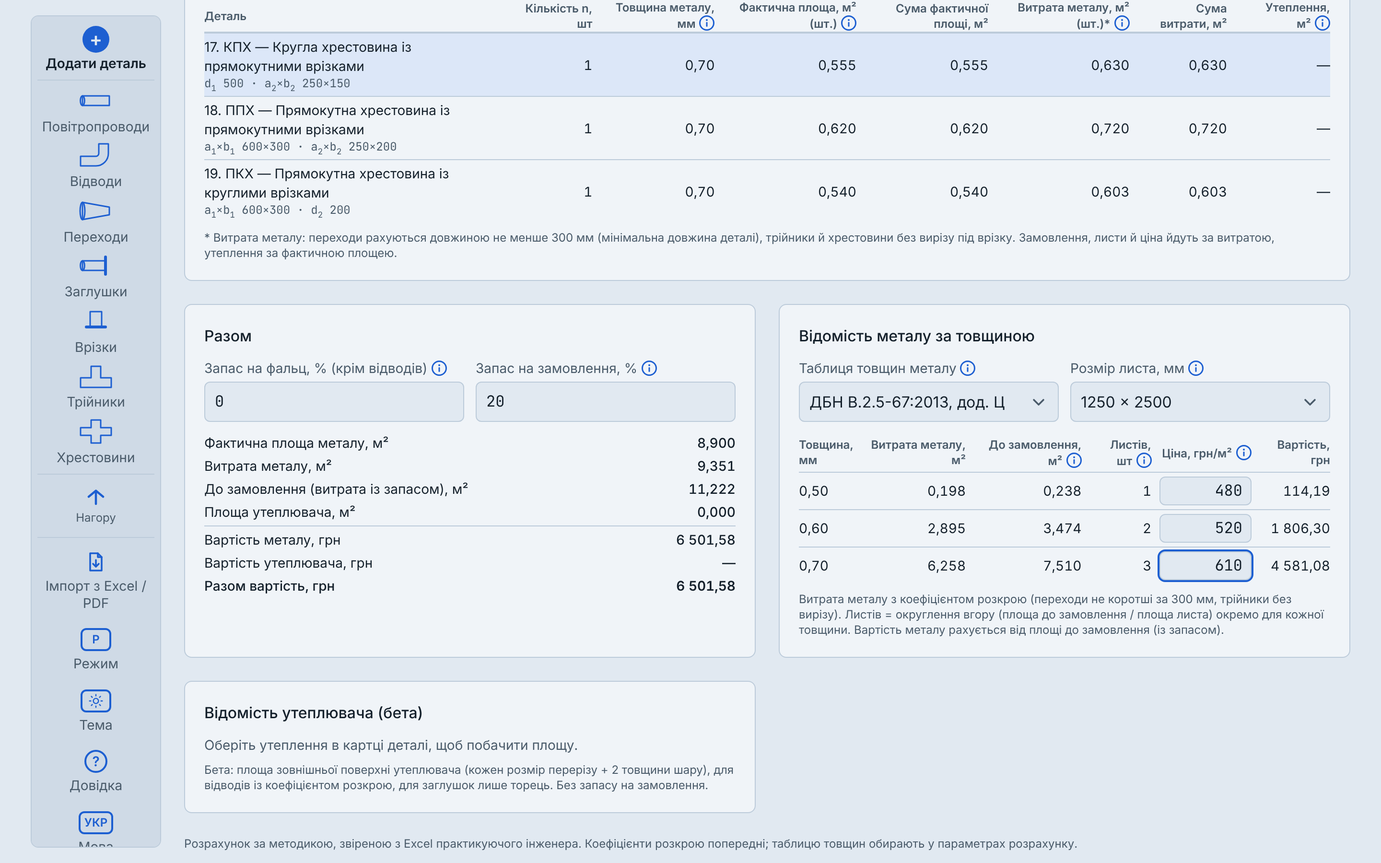
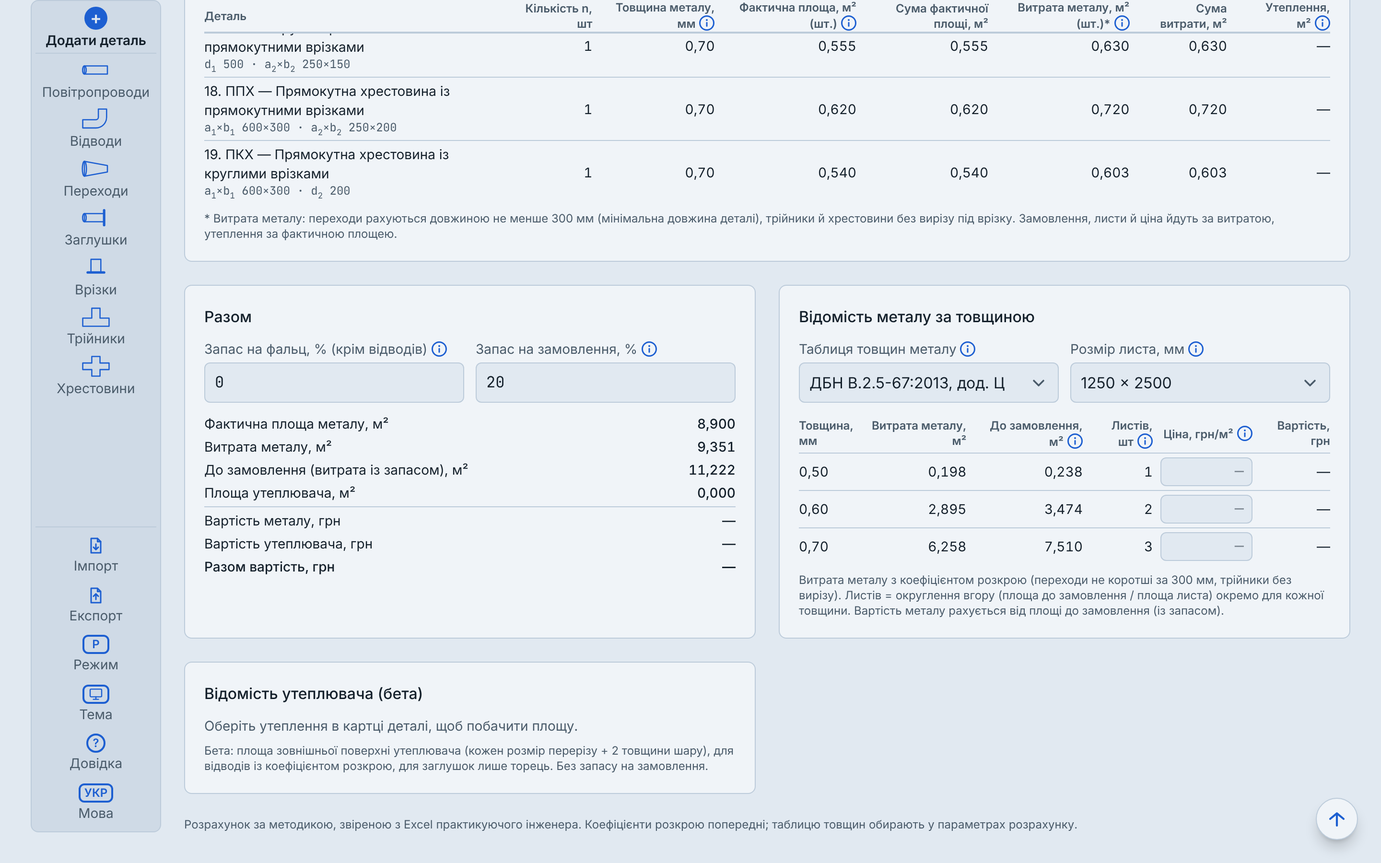
Compact desktop rail, floating to-top button (ADR 0104)
Claude-Session: https://claude.ai/code/session_0157kQd6RVjVS4by5oXwAeHK

diff --git a/src/components/calculator/KindPalette.tsx b/src/components/calculator/KindPalette.tsx
@@ -46,10 +46,25 @@ function KindItem({ kind, count, onPick }: { kind: FittingKind; count: number; o
 }
 
 // sections of the one rail panel, split by a line
-const railBox = "flex flex-col gap-1 border-t border-line pt-1.5 first:border-t-0 first:pt-0";
+const railBox = "flex flex-col gap-0.5 border-t border-line pt-1 first:border-t-0 first:pt-0";
 
-const railAction =
-  "grid justify-items-center gap-1 rounded-md border border-transparent px-1 py-1.5 text-center text-xs leading-tight text-muted hover:border-line hover:text-foreground hover:bg-accent-soft focus-visible:outline-2 focus-visible:outline-accent";
+/** Desktop: a round "to top" button at the bottom right of the screen, shown after a short scroll down; it left the rail to give the rail room (ADR 0104). */
+export function ToTopButton() {
+  const { dict } = useI18n();
+  const [scrolled, setScrolled] = useState(false);
+  useEffect(() => {
+    const onScroll = () => setScrolled(window.scrollY > 300);
+    onScroll();
+    window.addEventListener("scroll", onScroll, { passive: true });
+    return () => window.removeEventListener("scroll", onScroll);
+  }, []);
+  if (!scrolled) return null;
+  return (
+    <button type="button" onClick={scrollToTop} aria-label={dict.palette.toTop} title={dict.palette.toTop} className="print-hide fixed bottom-6 right-6 z-30 hidden h-11 w-11 place-items-center rounded-full border border-line bg-panel text-accent shadow-lg shadow-black/20 hover:border-accent hover:bg-accent-soft focus-visible:outline-2 focus-visible:outline-accent lg:grid">
+      <UpIcon className="h-5 w-7" />
+    </button>
+  );
+}
 
 /** Desktop: a narrow single-column rail (icon over label) of the kind groups, help and language (the view toggles are in the list header, ADR 0088), always in view; a group opens a list of its kinds beside the rail. */
 export function KindRail({ count, onAdd, onImport, exportItems }: Props & { onImport?: (rows: ImportRow[], replace: boolean) => number; exportItems?: ReactNode }) {
@@ -65,10 +80,10 @@ export function KindRail({ count, onAdd, onImport, exportItems }: Props & { onIm
     <nav ref={ref} aria-label={dict.palette.title} className="hidden lg:block">
       {/* the list opens inside the sticky box, so it stays beside the rail wherever the page is scrolled; the box is a stacking context, so it carries z-30 itself or the positioned sections paint over the list (ADR 0087) */}
       <div ref={box} className="sticky top-4 z-30">
-      <div className="flex h-[calc(100vh-2rem)] flex-col gap-1.5 overflow-y-auto rounded-lg border border-line bg-bar p-1.5">
+      <div className="flex h-[calc(100vh-2rem)] flex-col gap-1 overflow-y-auto rounded-lg border border-line bg-bar p-1">
       <div className={railBox}>
-        <p className="grid justify-items-center gap-0.5 border-b border-line px-0.5 pb-2 pt-1 text-center text-sm font-semibold leading-tight">
-          <span aria-hidden="true" className="grid h-7 w-7 place-items-center rounded-full bg-accent text-xl leading-none text-background">+</span>
+        <p className="grid justify-items-center gap-0.5 border-b border-line px-0.5 pb-1 pt-0.5 text-center text-sm font-semibold leading-tight">
+          <span aria-hidden="true" className="grid h-6 w-6 place-items-center rounded-full bg-accent text-lg leading-none text-background">+</span>
           {dict.palette.title}
         </p>
         <div className="grid grid-cols-1 gap-0.5">
@@ -81,22 +96,16 @@ export function KindRail({ count, onAdd, onImport, exportItems }: Props & { onIm
               setTop(box.current ? e.currentTarget.getBoundingClientRect().top - box.current.getBoundingClientRect().top : 0);
               setOpen(open === g.id ? null : g.id);
             }}
-            className={`grid justify-items-center gap-1 rounded-md border px-0.5 py-0.5 text-sm leading-tight hover:bg-accent-soft focus-visible:outline-2 focus-visible:outline-accent ${open === g.id ? "border-line bg-accent-soft text-foreground" : "border-transparent text-muted"}`}
+            className={`grid justify-items-center gap-0.5 rounded-md border px-0.5 py-0.5 text-sm leading-tight hover:bg-accent-soft focus-visible:outline-2 focus-visible:outline-accent ${open === g.id ? "border-line bg-accent-soft text-foreground" : "border-transparent text-muted"}`}
           >
-            <KindGlyph kind={g.kinds[0]} className="h-7 w-11 text-accent" />
+            <KindGlyph kind={g.kinds[0]} className="h-6 w-10 text-accent" />
             <span>{dict.kindGroups[g.id]}</span>
           </button>
         ))}
         </div>
       </div>
-        <div className={railBox}>
-          <button type="button" onClick={scrollToTop} className={railAction}>
-            <UpIcon className="h-5 w-8 text-accent" />
-            {dict.palette.toTop}
-          </button>
-        </div>
         {/* help and language sit at the bottom of the rail on desktop, beside the work; the phone keeps them in the page header */}
-        <div className={`${railBox} mt-auto pb-1`}>
+        <div className={`${railBox} mt-auto pb-0.5`}>
           {/* import and mode moved here from the page header on desktop (ADR 0089) */}
           {onImport && <ImportButton rail onImport={onImport} />}
           {exportItems}
@@ -105,6 +114,7 @@ export function KindRail({ count, onAdd, onImport, exportItems }: Props & { onIm
           <HelpButton rail />
           <LangRailButton />
         </div>
+      <ToTopButton />
       </div>
       {group && (
         <div style={{ top }} className="absolute left-full z-30 ml-2 w-max min-w-64 max-w-[28rem] rounded-lg border border-line bg-panel p-2 shadow-xl shadow-black/30">

diff --git a/src/components/calculator/ImportDialog.tsx b/src/components/calculator/ImportDialog.tsx
@@ -146,11 +146,11 @@ export function ImportButton({ onImport, className = "", rail = false }: { onImp
     <>
       {rail ? (
         // desktop rail: an icon over a label, like the other rail items (ADR 0089)
-        <button type="button" className={railItemClass} onClick={() => ref.current?.showModal()} aria-haspopup="dialog">
-          <svg viewBox="0 0 24 24" fill="none" stroke="currentColor" strokeWidth="1.8" strokeLinecap="round" strokeLinejoin="round" aria-hidden="true" className="h-6 w-6 text-accent">
+        <button type="button" className={railItemClass} onClick={() => ref.current?.showModal()} aria-haspopup="dialog" title={t.button}>
+          <svg viewBox="0 0 24 24" fill="none" stroke="currentColor" strokeWidth="1.8" strokeLinecap="round" strokeLinejoin="round" aria-hidden="true" className="h-5 w-5 text-accent">
             <path d="M6 3h8l4 4v14H6z" /><path d="M14 3v4h4" /><path d="M12 10v7M9 14l3 3 3-3" />
           </svg>
-          {t.button}
+          {t.short}
         </button>
       ) : (
         <button type="button" className={`${buttonClass} shrink-0 ${className}`} onClick={() => ref.current?.showModal()} aria-haspopup="dialog">

diff --git a/src/components/calculator/ExportBar.tsx b/src/components/calculator/ExportBar.tsx
@@ -68,7 +68,7 @@ function ExportRailItem({ empty, onXlsx }: { empty: boolean; onXlsx: () => void 
           setPos({ left: r.right + 12, bottom: window.innerHeight - r.bottom });
           setOpen(!open);
         }} aria-expanded={open} aria-haspopup="true" className={railItemClass}>
-        <svg viewBox="0 0 24 24" fill="none" stroke="currentColor" strokeWidth="1.8" strokeLinecap="round" strokeLinejoin="round" aria-hidden="true" className="h-6 w-6 text-accent">
+        <svg viewBox="0 0 24 24" fill="none" stroke="currentColor" strokeWidth="1.8" strokeLinecap="round" strokeLinejoin="round" aria-hidden="true" className="h-5 w-5 text-accent">
           <path d="M6 3h8l4 4v14H6zM14 3v4h4M12 17v-7M9 13l3-3 3 3" />
         </svg>
         {d.short}

diff --git a/src/components/calculator/ModeSwitch.tsx b/src/components/calculator/ModeSwitch.tsx
@@ -46,7 +46,7 @@ export function ModeRailButton() {
           setPos({ left: r.right + 12, bottom: window.innerHeight - r.bottom });
           setOpen(!open);
         }} aria-expanded={open} aria-haspopup="true" className={railItemClass} title={dict.mode.label}>
-        <span aria-hidden="true" className="grid h-6 min-w-8 place-items-center rounded-md border-2 border-accent px-1 text-xs font-bold leading-none text-accent">{dict.mode[mode].slice(0, 1)}</span>
+        <span aria-hidden="true" className="grid h-5 min-w-7 place-items-center rounded-md border-2 border-accent px-1 text-xs font-bold leading-none text-accent">{dict.mode[mode].slice(0, 1)}</span>
         {dict.mode.short}
       </button>
       {open && (

diff --git a/src/components/calculator/LangSwitch.tsx b/src/components/calculator/LangSwitch.tsx
@@ -40,7 +40,7 @@ export function LangRailButton() {
           setPos({ left: r.right + 12, bottom: window.innerHeight - r.bottom });
           setOpen(!open);
         }} aria-expanded={open} aria-haspopup="true" className={railItemClass} title={dict.language.label}>
-        <span aria-hidden="true" className="grid h-6 min-w-8 place-items-center rounded-md border-2 border-accent px-1 text-xs font-bold leading-none text-accent">{dict.language[lang]}</span>
+        <span aria-hidden="true" className="grid h-5 min-w-7 place-items-center rounded-md border-2 border-accent px-1 text-xs font-bold leading-none text-accent">{dict.language[lang]}</span>
         {dict.language.short}
       </button>
       {open && (

diff --git a/src/components/calculator/__tests__/kind-palette.test.tsx b/src/components/calculator/__tests__/kind-palette.test.tsx
@@ -22,7 +22,8 @@ describe("kind palette", () => {
   it("shows a rail button per group and quick buttons with the all-kinds entry", () => {
     const rail = renderToStaticMarkup(<KindRail count={() => 0} onAdd={() => {}} />);
     for (const name of Object.values(dict.kindGroups)) expect(rail).toContain(name);
-    expect(rail).toContain(dict.palette.toTop);
+    // "to top" left the rail for a floating button (ADR 0104)
+    expect(rail).not.toContain(dict.palette.toTop);
     // the view toggles moved from the rail to the sticky list header (ADR 0088)
     expect(rail).not.toContain(dict.hideAllSketches);
     const bar = renderToStaticMarkup(<ViewBar view={view} onColumns={() => {}} />);

diff --git a/src/components/calculator/styles.ts b/src/components/calculator/styles.ts
@@ -17,4 +17,4 @@ export const selectClass = `${inputClass} select-chevron`;
 
 /** One item of the desktop side rail: an icon over a short label. */
 export const railItemClass =
-  "grid justify-items-center gap-1 rounded-md border border-transparent px-1 py-1.5 text-center text-sm leading-tight text-muted hover:border-line hover:bg-accent-soft hover:text-foreground focus-visible:outline-2 focus-visible:outline-accent";
+  "grid justify-items-center gap-0.5 rounded-md border border-transparent px-1 py-1 text-center text-sm leading-tight text-muted hover:border-line hover:bg-accent-soft hover:text-foreground focus-visible:outline-2 focus-visible:outline-accent";

diff --git a/src/components/calculator/ThemeSwitch.tsx b/src/components/calculator/ThemeSwitch.tsx
@@ -55,7 +55,7 @@ export function ThemeRailButton() {
           setPos({ left: r.right + 12, bottom: window.innerHeight - r.bottom });
           setOpen(!open);
         }} aria-expanded={open} aria-haspopup="true" className={railItemClass} title={dict.theme.label}>
-        <span aria-hidden="true" className="grid h-6 min-w-8 place-items-center rounded-md border-2 border-accent px-1 text-accent"><ThemeIcon theme={theme} /></span>
+        <span aria-hidden="true" className="grid h-5 min-w-7 place-items-center rounded-md border-2 border-accent px-1 text-accent"><ThemeIcon theme={theme} /></span>
         {dict.theme.short}
       </button>
       {open && (

diff --git a/src/components/calculator/HelpDialog.tsx b/src/components/calculator/HelpDialog.tsx
@@ -17,7 +17,7 @@ export function HelpButton({ rail = false }: { rail?: boolean }) {
       {rail ? (
         // desktop rail: an icon over a label, like the other rail items
         <button type="button" className={railItemClass} onClick={show} aria-haspopup="dialog">
-          <span aria-hidden="true" className="grid h-6 w-6 place-items-center rounded-full border-2 border-accent text-sm font-bold leading-none text-accent">?</span>
+          <span aria-hidden="true" className="grid h-5 w-5 place-items-center rounded-full border-2 border-accent text-xs font-bold leading-none text-accent">?</span>
           {g.button}
         </button>
       ) : (

diff --git a/src/lib/i18n/uk.ts b/src/lib/i18n/uk.ts
@@ -354,6 +354,7 @@ export const uk = {
   // import of a spec table from .xlsx / .csv (ADR 0061)
   import: {
     button: 'Імпорт з Excel / PDF',
+    short: 'Імпорт',
     title: 'Імпорт таблиці з Excel або PDF',
     close: 'Закрити',
     intro: 'Завантажте специфікацію у форматі .xlsx, .csv або .pdf. Файл читається лише у вашому браузері й нікуди не надсилається.',

diff --git a/src/lib/i18n/en.ts b/src/lib/i18n/en.ts
@@ -332,6 +332,7 @@ export const en: Dictionary = {
   // import of a spec table from .xlsx / .csv (ADR 0061)
   import: {
     button: 'Import Excel / PDF',
+    short: 'Import',
     title: 'Import a table from Excel or PDF',
     close: 'Close',
     intro: 'Upload a spec as .xlsx, .csv or .pdf. The file is read in your browser only and is never sent anywhere.',

diff --git a/CLAUDE.md b/CLAUDE.md
@@ -8,7 +8,7 @@ Stack: Next.js (App Router), TypeScript strict, Vitest, Zod 4. Core logic is pla
 Engineering decisions: one ADR per file in `docs/adr/`. `docs/decisions.md` is the short index: the ADR list, known deviations from the Excel, the `TODO(confirm)` register and deferred work. The engineer's answers and the Excel template bugs: `docs/engineer-answers.md`.
 
 ## Status
-Stage 0 (fittings geometry, pressure drop) and stage 1 core (thickness table, elbow waste factor, air properties, Zod validation, `assembleSection`) are done and merged. Sheet list by thickness (metal m2 per thickness, `sheetList`) is done. First UI is done (split into focused components + `useCalculator` hook): one client-side calculator page (page width capped at 1920 px, an optional two-column card layout from 1280 px, ADR 0047; Ukrainian by default, English via the УКР / EN switch (bottom of the side rail on desktop, header on the phone, ADR 0048), remembered in `localStorage`, see ADR 0039), no backend. Deployed on Vercel (owner's account, Hobby plan, auto-deploy from `main`, previews per PR); Vercel Web Analytics is wired in (`<Analytics />` in `src/app/layout.tsx`, package `@vercel/analytics`, the owner enables it in the Vercel dashboard). Elbow radius is now suggested from the size in the form (round centre-line R = 1.0 D, rect inner R = 0.5 W, `config.elbowRadius`, `TODO(confirm)`; the field follows the size until the user types over it). During the beta the page opens with one example row of every fitting kind (`form/sample-rows.ts`) and the full sketches are closed by default (only the thumbnail shows, ADR 0081). Each fitting card starts with a thumbnail of its isometric sketch; a click opens the full sketch inside the card and a second click closes it (ADR 0040; it replaced the "Показати схему" button); the sketch is an inline SVG (line style, labels beside the drawing, a legend names the letters, see ADR 0033; the older side view and cross-section stay in the code, unused by the card). Inputs in a row stay aligned when a label wraps (each field is a column packed to the bottom, `justify-end`, so the inputs stay level and the shorter labels sit right above their inputs). Fittings are added from an always-visible side panel (desktop: sticky rail of kind groups with a list beside it; phone: quick buttons and a bottom sheet with search, see ADR 0031); a card shows its kind as a title and changes it through a «⋯» menu. Input warnings (aspect ratio, size over 2000 mm, large elbow radius) are done. Tees and crosses (metal area, 8 kinds, see ADR 0021) are done. Standalone branch-in collars (врізки Квр, Пвр: `roundTap`, `rectTap`, metal area only, see ADR 0026) are done. The engineer's 2026-10-19 answers are in: ДБН thickness table by default (engineer's table selectable), user-set seam allowance for non-elbows, reducer friction by the mean diameter, order margin (default 20 %), sheet size and sheet count (settings block in the UI). The UI shows areas only (owner, 2026-10-19): pressure losses, centerline length, air parameters, airflow and zeta are hidden, the core and its tests are unchanged. The README is the portfolio page (English, with a Ukrainian copy `README.uk.md` and language links at the top; keep both in sync): what the tool does, live link, screenshots in `docs/images/` (taken from a production build at 1440 x 900 and a 390 px phone), supported fittings, how the numbers are verified, stack and commands; refresh the screenshots when the UI changes visibly (last retaken 2026-11-24 after ADRs 0094-0097, desktop and phone in the simple mode, totals in the advanced mode). The area formulas were cross-checked against ВСН 353-86, ДСТУ Б Д.2.4-15:2014 and online calculators (2026-10-27); the rect-to-round transition is now the exact layout (ADR 0035), the other kinds agree or differ only by documented choices (slant instead of the axial length, smooth instead of segmented round elbows). Insulation area is in as a beta (ADR 0037): one material per row from the Excel's six, outer surface = metal geometry with each size + 2t, elbows with the cutting coefficient, caps the end plate only; per-row column, a list per material and a total. Price is in (ADR 0038): the user types UAH per m² for each thickness in the metal list and each material in the insulation list (empty = no price, nothing preset); metal is priced on the area to order (margin included), insulation on its computed area; cost per line and totals (metal, insulation, all), unpriced lines are counted, not free. The engineer's 2026-11-16 answers, part one (ADR 0041): his thickness table keys rect sizes by the equivalent diameter 2AB/(A+B) (`ThicknessTable.rectKey`), and every fitting with an allowance takes a number of allowances 2 / 1 / 0 (`allowanceCount`, absent = 2, a select in the card). Part two (ADR 0042): reducers, tees and crosses show two areas, the actual area and the metal consumption (`calc/consumption.ts`: reducers at least `config.consumption.minReducerLengthMm` = 300 mm long, tees and crosses without the cut-out); the order, sheet list, sheet count and metal price use the consumption, insulation the actual geometry. The tap ring (ADR 0043): taps add a flat ring `config.tap.ringWidthMm` = 50 mm wide around the stub (round annulus, rect frame) to the actual metal area and the consumption (`calc/tap-ring.ts` `tapRingArea`, added in `metalArea`, ADR 0044); `sheetArea` and insulation stay the stub only. Straights split into shop pieces (ADR 0045): a per-card max piece length (round 3000, rect 1250 mm, `config.straightPiece`, `TODO(confirm)`; 0 = off), the results show «ланки: 7 × 3 м + 1 × 1,5 м», the area is unchanged (`form/pieces.ts` `splitLength`). In-app help (ADR 0046): an «i» button after the less obvious input labels and column headers opens a short explanation on tap (no hover), and a «Довідка» button in the header opens a six-step how-to dialog (the sixth on the import, ADR 0063); texts in `dict.help`. Manual row order and positions (ADR 0049): cards move by a «⠿» drag handle (mouse on desktop, finger on the phone; live preview, cards glide on a reorder only, ADR 0068) and ↑ / ↓ buttons (everywhere); the rows array is the order of the list and the results; a repeated kind forms a section only where its rows stand together (each section takes the full width, ADR 0071, framed in the accent colour at 35 %, ADR 0072; folded tiles read down the columns, ADR 0065, in rows of equal height, ADR 0066; single fittings, folded or open, sit in an «Окремі деталі» block framed like a section in the colour `--single`, ADRs 0070, 0091); each card has a free-text «Позиція» field (empty = list number, e.g. П1, В2), shown on the card and in the results (`form/order.ts`). Results rows show the sizes under the name and scroll to the card on click, which is then highlighted for 1.5 s (ADRs 0050, 0054); the results table shows the same sections as the list, with section sums; a click on a section title scrolls to the section and highlights it the same way (ADRs 0055, 0057). The results table header sticks to the top of the screen from `lg` (ADR 0075); between `sm` and `lg` the table box is capped at 80vh and the header sticks inside it (ADR 0078). A folded tile shows its four buttons in two rows (ADR 0077); in the two-column layout an open card's buttons stand in two rows, fold and move on top, clone, kind and remove below (ADR 0080). On a phone (below 640 px) the results, sheet list and insulation list render as blocks of «label: value» lines instead of tables (ADR 0058), and an open card sketch sits right under the thumbnail (ADR 0059). The card's «Згорнути» is the first card button and tinted (ADR 0060). A clone opens in its original's view, folded or open (ADR 0056). Section titles start with their positions, «1–2.» or «П1, П2.» (ADR 0051). A whole section moves by its own «⠿» handle and ↑ / ↓ (ADR 0052, `moveBlock`). Seam allowance and order margin are also editable in «Разом», thickness table and sheet size in «Відомість металу за товщиною» (same state, shared field components in `SettingsPanel.tsx`, ADR 0053). Import of a spec table (ADR 0061): «Імпорт з Excel» in the header reads .xlsx / .csv in the browser (no dependency, own ZIP + XML reader), guesses the column mapping (editable, remembered per header text), recognises kinds from codes and names (a hood «Зонт» is a cap, ADR 0079), shows every row (recognised / not recognised with a manual kind choice / service rows) and adds the rows in file order with positions «система-№» from the file; its inputs carry «i» help (`dict.import.info`, ADR 0063); a size in the name that differs from its column is flagged in the preview and as a warning on the card until the field is edited (`sizeConflicts`, `FormRow.sizeConflicts`, ADR 0073). A row the file gives no size for is added with «⚠ розмірів у файлі немає» on the card and the tile (`FormRow.noSizes`, ADR 0074). «Видалити всі» at the «Деталі» heading empties the list after an in-place confirmation (ADR 0062). Simple / advanced interface mode (ADR 0082): a «Простий / Розширений» switch in the header, remembered in `localStorage`, simple by default; the simple mode hides the settings block, allowances, insulation, max piece length and prices (elements with the class `adv-only`, hidden by `<html data-mode="simple">`), hidden values still count. The header toolbar sits left under the title, «Видалити всі» right after the «Деталі» heading (ADR 0083). Sections are tinted, end in a gradient bottom edge (accent in the middle, fading to the corners) and stand further apart from the «Окремі деталі» frames (ADR 0084). On a phone a section header puts ↑ / ↓ and the fold icon in one row (ADR 0098, was two rows in 0085). A results row whose card has an error or is not counted starts with a red ⚠, one with warnings with an amber ⚠; the «not counted» note lists the skipped rows as links to their cards (ADR 0086). The rail's sticky box carries `z-30`, so its group list paints above the sections (ADR 0087). On desktop the view toggles (all sketches, fold all, columns; `ViewBar`) left the rail for a left-aligned bar under the «Деталі» heading that sticks to the top, with «Видалити всі» at its end (the phone keeps it beside the heading; ADR 0088). On desktop «Імпорт з Excel» and the mode («Режим», a list beside the rail like the language, `ModeRailButton`) sit at the bottom of the rail and the header toolbar is phone-only (ADR 0089). Fonts: Inter for the text, JetBrains Mono for `font-mono`, via `next/font/google` in `src/app/layout.tsx` (ADR 0090). Theme: «Як у системі» (default) / «Світла» / «Темна», remembered in `localStorage`, on `<html data-theme>` set before paint by an inline script; a «Тема» rail item on desktop, a three-icon switch in the phone header; `dark:` is a custom variant on `data-theme` (ADR 0092). The light palette is a soft grey-blue with no pure white (ADR 0093). Size indices (d₁, a₂) render as `<sub>` in HTML through `subs()` (`calculator/subscripts.tsx`), the SVG sketch labels use the system sans stack (ADR 0094). Each «Довідка» step shows a short muted MP4 clip (`public/help/<step>-<lang>.mp4`, loaded only while the dialog is open, re-recorded by `scripts/record-help.cjs` when the UI changes, ADR 0097). Import also reads a text PDF (`import/pdf.ts`: own reader, no dependency; columns from the table borders or text ranges; scans are refused; the button is «Імпорт з Excel / PDF», ADR 0096; fonts with a predefined UTF-16 CMap and no ToUnicode are decoded, text clipped to a cell box is one cell even when wrapped, Excel errors are ignored in the column guess, ADR 0099; text lines between two row borders with one full line are one row, marked «⚠ склеєно з N рядків» (N = lines of the most wrapped cell) in the preview and on the card, `joinWrapped`, `rowLines`, `FormRow.joinedLines`, ADR 0100). Card and section buttons (fold, clone, remove) are icons only, the text stays in `title` / `aria-label`; section buttons in one row on the phone (ADR 0098). «Нумерація» beside «Видалити всі» numbers positions «система-№» (empty only or all again, with a preview; `numberBySystems`, `systemOf` in `form/order.ts`, `NumberSystems.tsx`, ADR 0095). The project (rows, order, positions, settings, prices) is saved in `localStorage` key `project`, versioned JSON, read right after hydration, broken data skipped; the sample rows show only when nothing is saved (`form/project-store.ts`, ADR 0101). Export (ADR 0102): «Завантажити Excel» (own writer `export/xlsx-writer.ts`, sheets from `calculator/export-report.ts` `reportSheets`: specification with totals, metal, insulation) and «Друк / PDF» (`window.print()`, print styles `print-hide` / `print-full` in `globals.css`), a bar under the fittings list, an «Експорт» rail item after the import on desktop and two buttons in the phone header toolbar (ADR 0103). Next, in the engineer's order: aerodynamics as a separate mode; the export layout may follow the engineer's reference files when they come.
+Stage 0 (fittings geometry, pressure drop) and stage 1 core (thickness table, elbow waste factor, air properties, Zod validation, `assembleSection`) are done and merged. Sheet list by thickness (metal m2 per thickness, `sheetList`) is done. First UI is done (split into focused components + `useCalculator` hook): one client-side calculator page (page width capped at 1920 px, an optional two-column card layout from 1280 px, ADR 0047; Ukrainian by default, English via the УКР / EN switch (bottom of the side rail on desktop, header on the phone, ADR 0048), remembered in `localStorage`, see ADR 0039), no backend. Deployed on Vercel (owner's account, Hobby plan, auto-deploy from `main`, previews per PR); Vercel Web Analytics is wired in (`<Analytics />` in `src/app/layout.tsx`, package `@vercel/analytics`, the owner enables it in the Vercel dashboard). Elbow radius is now suggested from the size in the form (round centre-line R = 1.0 D, rect inner R = 0.5 W, `config.elbowRadius`, `TODO(confirm)`; the field follows the size until the user types over it). During the beta the page opens with one example row of every fitting kind (`form/sample-rows.ts`) and the full sketches are closed by default (only the thumbnail shows, ADR 0081). Each fitting card starts with a thumbnail of its isometric sketch; a click opens the full sketch inside the card and a second click closes it (ADR 0040; it replaced the "Показати схему" button); the sketch is an inline SVG (line style, labels beside the drawing, a legend names the letters, see ADR 0033; the older side view and cross-section stay in the code, unused by the card). Inputs in a row stay aligned when a label wraps (each field is a column packed to the bottom, `justify-end`, so the inputs stay level and the shorter labels sit right above their inputs). Fittings are added from an always-visible side panel (desktop: sticky rail of kind groups with a list beside it; phone: quick buttons and a bottom sheet with search, see ADR 0031); a card shows its kind as a title and changes it through a «⋯» menu. Input warnings (aspect ratio, size over 2000 mm, large elbow radius) are done. Tees and crosses (metal area, 8 kinds, see ADR 0021) are done. Standalone branch-in collars (врізки Квр, Пвр: `roundTap`, `rectTap`, metal area only, see ADR 0026) are done. The engineer's 2026-10-19 answers are in: ДБН thickness table by default (engineer's table selectable), user-set seam allowance for non-elbows, reducer friction by the mean diameter, order margin (default 20 %), sheet size and sheet count (settings block in the UI). The UI shows areas only (owner, 2026-10-19): pressure losses, centerline length, air parameters, airflow and zeta are hidden, the core and its tests are unchanged. The README is the portfolio page (English, with a Ukrainian copy `README.uk.md` and language links at the top; keep both in sync): what the tool does, live link, screenshots in `docs/images/` (taken from a production build at 1440 x 900 and a 390 px phone), supported fittings, how the numbers are verified, stack and commands; refresh the screenshots when the UI changes visibly (last retaken 2026-11-25 after ADR 0104, desktop and phone in the simple mode, totals in the advanced mode). The area formulas were cross-checked against ВСН 353-86, ДСТУ Б Д.2.4-15:2014 and online calculators (2026-10-27); the rect-to-round transition is now the exact layout (ADR 0035), the other kinds agree or differ only by documented choices (slant instead of the axial length, smooth instead of segmented round elbows). Insulation area is in as a beta (ADR 0037): one material per row from the Excel's six, outer surface = metal geometry with each size + 2t, elbows with the cutting coefficient, caps the end plate only; per-row column, a list per material and a total. Price is in (ADR 0038): the user types UAH per m² for each thickness in the metal list and each material in the insulation list (empty = no price, nothing preset); metal is priced on the area to order (margin included), insulation on its computed area; cost per line and totals (metal, insulation, all), unpriced lines are counted, not free. The engineer's 2026-11-16 answers, part one (ADR 0041): his thickness table keys rect sizes by the equivalent diameter 2AB/(A+B) (`ThicknessTable.rectKey`), and every fitting with an allowance takes a number of allowances 2 / 1 / 0 (`allowanceCount`, absent = 2, a select in the card). Part two (ADR 0042): reducers, tees and crosses show two areas, the actual area and the metal consumption (`calc/consumption.ts`: reducers at least `config.consumption.minReducerLengthMm` = 300 mm long, tees and crosses without the cut-out); the order, sheet list, sheet count and metal price use the consumption, insulation the actual geometry. The tap ring (ADR 0043): taps add a flat ring `config.tap.ringWidthMm` = 50 mm wide around the stub (round annulus, rect frame) to the actual metal area and the consumption (`calc/tap-ring.ts` `tapRingArea`, added in `metalArea`, ADR 0044); `sheetArea` and insulation stay the stub only. Straights split into shop pieces (ADR 0045): a per-card max piece length (round 3000, rect 1250 mm, `config.straightPiece`, `TODO(confirm)`; 0 = off), the results show «ланки: 7 × 3 м + 1 × 1,5 м», the area is unchanged (`form/pieces.ts` `splitLength`). In-app help (ADR 0046): an «i» button after the less obvious input labels and column headers opens a short explanation on tap (no hover), and a «Довідка» button in the header opens a six-step how-to dialog (the sixth on the import, ADR 0063); texts in `dict.help`. Manual row order and positions (ADR 0049): cards move by a «⠿» drag handle (mouse on desktop, finger on the phone; live preview, cards glide on a reorder only, ADR 0068) and ↑ / ↓ buttons (everywhere); the rows array is the order of the list and the results; a repeated kind forms a section only where its rows stand together (each section takes the full width, ADR 0071, framed in the accent colour at 35 %, ADR 0072; folded tiles read down the columns, ADR 0065, in rows of equal height, ADR 0066; single fittings, folded or open, sit in an «Окремі деталі» block framed like a section in the colour `--single`, ADRs 0070, 0091); each card has a free-text «Позиція» field (empty = list number, e.g. П1, В2), shown on the card and in the results (`form/order.ts`). Results rows show the sizes under the name and scroll to the card on click, which is then highlighted for 1.5 s (ADRs 0050, 0054); the results table shows the same sections as the list, with section sums; a click on a section title scrolls to the section and highlights it the same way (ADRs 0055, 0057). The results table header sticks to the top of the screen from `lg` (ADR 0075); between `sm` and `lg` the table box is capped at 80vh and the header sticks inside it (ADR 0078). A folded tile shows its four buttons in two rows (ADR 0077); in the two-column layout an open card's buttons stand in two rows, fold and move on top, clone, kind and remove below (ADR 0080). On a phone (below 640 px) the results, sheet list and insulation list render as blocks of «label: value» lines instead of tables (ADR 0058), and an open card sketch sits right under the thumbnail (ADR 0059). The card's «Згорнути» is the first card button and tinted (ADR 0060). A clone opens in its original's view, folded or open (ADR 0056). Section titles start with their positions, «1–2.» or «П1, П2.» (ADR 0051). A whole section moves by its own «⠿» handle and ↑ / ↓ (ADR 0052, `moveBlock`). Seam allowance and order margin are also editable in «Разом», thickness table and sheet size in «Відомість металу за товщиною» (same state, shared field components in `SettingsPanel.tsx`, ADR 0053). Import of a spec table (ADR 0061): «Імпорт з Excel» in the header reads .xlsx / .csv in the browser (no dependency, own ZIP + XML reader), guesses the column mapping (editable, remembered per header text), recognises kinds from codes and names (a hood «Зонт» is a cap, ADR 0079), shows every row (recognised / not recognised with a manual kind choice / service rows) and adds the rows in file order with positions «система-№» from the file; its inputs carry «i» help (`dict.import.info`, ADR 0063); a size in the name that differs from its column is flagged in the preview and as a warning on the card until the field is edited (`sizeConflicts`, `FormRow.sizeConflicts`, ADR 0073). A row the file gives no size for is added with «⚠ розмірів у файлі немає» on the card and the tile (`FormRow.noSizes`, ADR 0074). «Видалити всі» at the «Деталі» heading empties the list after an in-place confirmation (ADR 0062). Simple / advanced interface mode (ADR 0082): a «Простий / Розширений» switch in the header, remembered in `localStorage`, simple by default; the simple mode hides the settings block, allowances, insulation, max piece length and prices (elements with the class `adv-only`, hidden by `<html data-mode="simple">`), hidden values still count. The header toolbar sits left under the title, «Видалити всі» right after the «Деталі» heading (ADR 0083). Sections are tinted, end in a gradient bottom edge (accent in the middle, fading to the corners) and stand further apart from the «Окремі деталі» frames (ADR 0084). On a phone a section header puts ↑ / ↓ and the fold icon in one row (ADR 0098, was two rows in 0085). A results row whose card has an error or is not counted starts with a red ⚠, one with warnings with an amber ⚠; the «not counted» note lists the skipped rows as links to their cards (ADR 0086). The rail's sticky box carries `z-30`, so its group list paints above the sections (ADR 0087). On desktop the view toggles (all sketches, fold all, columns; `ViewBar`) left the rail for a left-aligned bar under the «Деталі» heading that sticks to the top, with «Видалити всі» at its end (the phone keeps it beside the heading; ADR 0088). On desktop «Імпорт з Excel» and the mode («Режим», a list beside the rail like the language, `ModeRailButton`) sit at the bottom of the rail and the header toolbar is phone-only (ADR 0089). Fonts: Inter for the text, JetBrains Mono for `font-mono`, via `next/font/google` in `src/app/layout.tsx` (ADR 0090). Theme: «Як у системі» (default) / «Світла» / «Темна», remembered in `localStorage`, on `<html data-theme>` set before paint by an inline script; a «Тема» rail item on desktop, a three-icon switch in the phone header; `dark:` is a custom variant on `data-theme` (ADR 0092). The light palette is a soft grey-blue with no pure white (ADR 0093). Size indices (d₁, a₂) render as `<sub>` in HTML through `subs()` (`calculator/subscripts.tsx`), the SVG sketch labels use the system sans stack (ADR 0094). Each «Довідка» step shows a short muted MP4 clip (`public/help/<step>-<lang>.mp4`, loaded only while the dialog is open, re-recorded by `scripts/record-help.cjs` when the UI changes, ADR 0097). Import also reads a text PDF (`import/pdf.ts`: own reader, no dependency; columns from the table borders or text ranges; scans are refused; the button is «Імпорт з Excel / PDF», ADR 0096; fonts with a predefined UTF-16 CMap and no ToUnicode are decoded, text clipped to a cell box is one cell even when wrapped, Excel errors are ignored in the column guess, ADR 0099; text lines between two row borders with one full line are one row, marked «⚠ склеєно з N рядків» (N = lines of the most wrapped cell) in the preview and on the card, `joinWrapped`, `rowLines`, `FormRow.joinedLines`, ADR 0100). Card and section buttons (fold, clone, remove) are icons only, the text stays in `title` / `aria-label`; section buttons in one row on the phone (ADR 0098). «Нумерація» beside «Видалити всі» numbers positions «система-№» (empty only or all again, with a preview; `numberBySystems`, `systemOf` in `form/order.ts`, `NumberSystems.tsx`, ADR 0095). The project (rows, order, positions, settings, prices) is saved in `localStorage` key `project`, versioned JSON, read right after hydration, broken data skipped; the sample rows show only when nothing is saved (`form/project-store.ts`, ADR 0101). Export (ADR 0102): «Завантажити Excel» (own writer `export/xlsx-writer.ts`, sheets from `calculator/export-report.ts` `reportSheets`: specification with totals, metal, insulation) and «Друк / PDF» (`window.print()`, print styles `print-hide` / `print-full` in `globals.css`), a bar under the fittings list, an «Експорт» rail item after the import on desktop and two buttons in the phone header toolbar (ADR 0103). The desktop rail is compact and «Нагору» is a floating round button at the bottom right after a scroll; the rail's import item reads «Імпорт» (ADR 0104). Next, in the engineer's order: aerodynamics as a separate mode; the export layout may follow the engineer's reference files when they come.
 
 ## Code map (`src/lib/`)
 - `calc/units.ts` - `mmToM`, `mToMm` (import, ADR 0061), `m3hToM3s`, `degToRad`; the only place that converts.
